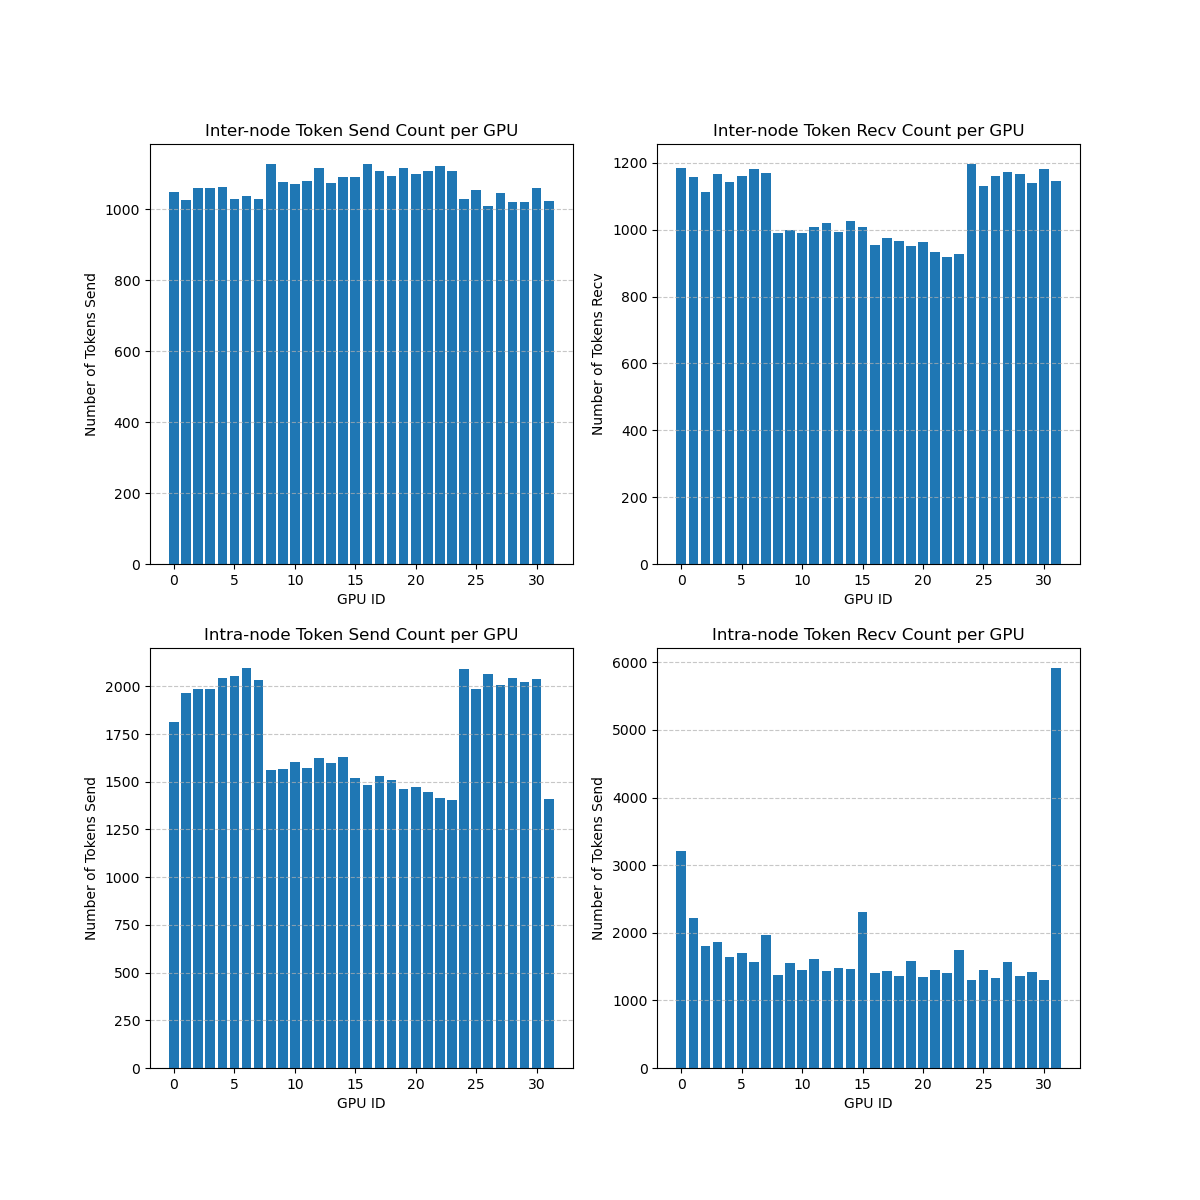
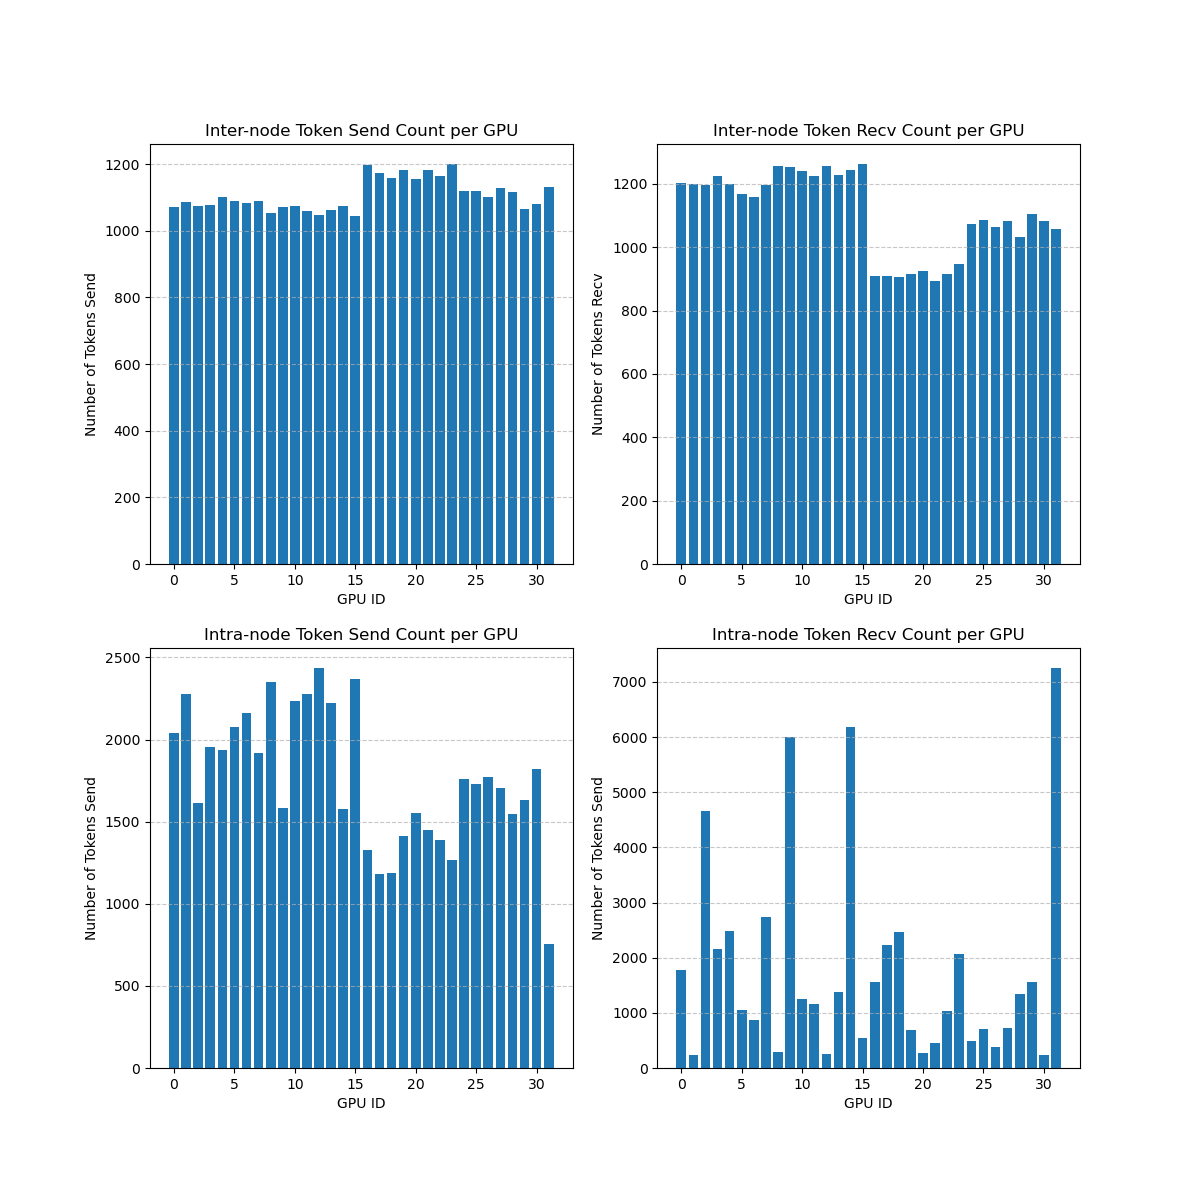
refine the workload

diff --git a/generate_workload.py b/generate_workload.py
@@ -6,7 +6,7 @@ from tqdm import tqdm
 from common import *
 from analyze_workload import analyze_pkl_workload
 
-def generate_workload(config: SimConfig, cluster: Cluster, output_dir):
+def generate_workload_zipf(config: SimConfig, cluster: Cluster, output_dir):
     '''
     生成config.iter_num个需求文件保存到output_dir中
     '''
@@ -76,11 +76,197 @@ def generate_workload(config: SimConfig, cluster: Cluster, output_dir):
     print(f"Workload Generation Complete!")
     print(f"Generated {total_requests_count} token requests in {output_dir}")
 
+def generate_workload_dirichlet(config :SimConfig, cluster :Cluster, output_dir):
+    '''
+    使用dirichlet分布生成工作负载
+    '''
+    if not os.path.exists(output_dir):
+        os.makedirs(output_dir)
+    
+    total_requests_count = 0
+    print(f"Start Generate Wrokloads......")
+    print(f" - Iter Num: {config.iter_num}")
+    print(f" - Layer Num: {config.num_layers}")
+    print(f" - Token Num Per Iter: {config.num_tokens}")
+    print(f" - Dirichlet Alpha: {config.zipf_alpha}")
+
+    tokens_per_gpu = config.num_tokens // config.total_gpus
+    src_gpu_base = np.repeat(np.arange(0, config.total_gpus), tokens_per_gpu)
+
+    if len(src_gpu_base) < config.num_tokens:
+        diff = config.num_tokens - len(src_gpu_base)
+        src_gpu_base = np.concatenate([src_gpu_base, np.random.randint(0, config.total_gpus, diff)])
+    
+    for iter_idx in range(config.iter_num):
+
+        iter_data = []
+        
+        print(f"Generating Iter:{iter_idx}/{config.iter_num - 1}...")
+        for layer_id in tqdm(range(config.num_layers), desc="Layers"):
+            layer_request = []
+
+            alpha_vec = np.full(config.total_experts, config.zipf_alpha)
+            expert_prob = np.random.dirichlet(alpha_vec)
+
+            raw_samples = np.random.choice(
+                config.total_experts,
+                (config.num_tokens, config.top_k * 2),
+                replace=True,
+                p=expert_prob
+            )
+
+            for token_id in range(config.num_tokens):
+                src_gpu = src_gpu_base[token_id]
+                candidate_experts = raw_samples[token_id]
+
+                target_experts = []
+                for exp in candidate_experts:
+                    exp = int(exp)
+                    if exp not in target_experts:
+                        target_experts.append(exp)
+                        if len(target_experts) == config.top_k:
+                            break
+                
+                while len(target_experts) < config.top_k:
+                    new_exp = np.random.randint(0, config.total_experts, dtype=int)
+                    if new_exp not in target_experts:
+                        target_experts.append(new_exp)
+                
+                req = TokenRequest(
+                    token_id=token_id,
+                    src_gpu=src_gpu,
+                    target_experts=target_experts,
+                )
+
+                cluster.resolve_targets(req)
+                layer_request.append(req)
+        
+            iter_data.append(layer_request)
+            total_requests_count += len(layer_request)
+
+        with open(os.path.join(output_dir, f"iter_{iter_idx}_requests.pkl"), "wb") as f:
+            pickle.dump(iter_data, f)
+        
+        del iter_data
+    
+    print(f"Workload Generation Complete!")
+    print(f"Generated {total_requests_count} token requests in {output_dir}")
+
+def generate_workload_custom(
+        config :SimConfig,
+        cluster :Cluster,
+        output_dir,
+        hot_experts :list[int],
+        hot_traffic_ratio :float 
+):
+    '''
+    接收热点专家列表和热点专家组的流量比例，生成不均衡的工作负载
+    '''
+    
+    if not os.path.exists(output_dir):
+        os.makedirs(output_dir)
+
+    if not hot_experts:
+        raise ValueError("Parameter hot_experts can not be empty")
+    
+    if hot_traffic_ratio is None:
+        raise ValueError("Parameter hot_experts can not be empty")
+    
+    if len(hot_experts) >= config.total_experts:
+        raise ValueError("All experts cannot be hot experts")
+    
+    if not (0 <= hot_traffic_ratio <= 1):
+        raise ValueError("hot_traffic_ratio must between 0 and 1")
+    
+    total_experts = config.total_experts
+    prob_vector = np.zeros(total_experts, dtype=float)
+
+    cold_experts = [i for i in range(total_experts) if i not in hot_experts]
+
+    num_hot_experts = len(hot_experts)
+    num_cold_experts = len(cold_experts)
+
+    intra_group_alpha = config.zipf_alpha
+
+    if num_hot_experts > 0:
+        hot_internal_weights = np.random.dirichlet(np.full(num_hot_experts, intra_group_alpha))
+        prob_vector[hot_experts] = hot_internal_weights * hot_traffic_ratio
+
+    if num_cold_experts > 0:
+        cold_internal_weights = np.random.dirichlet(np.full(num_cold_experts, intra_group_alpha))
+        prob_vector[cold_experts] = cold_internal_weights * (1.0 - hot_traffic_ratio)
+    
+    prob_vector = prob_vector / prob_vector.sum()
+    
+    total_requests_count = 0
+    tokens_per_gpu = config.num_tokens // config.total_gpus
+
+    src_gpu_base = np.repeat(np.arange(0, config.total_gpus), tokens_per_gpu)
+
+    if len(src_gpu_base) < config.num_tokens:
+        diff = config.num_tokens - len(src_gpu_base)
+        src_gpu_base = np.concatenate([src_gpu_base, np.random.randint(0, config.total_gpus, diff)])
+
+    print(f"Start Generate Custom Workloads...")
+    print(f" - Hot Ratio: {hot_traffic_ratio}")
+    print(f" - Hot Experts: {hot_experts}")
+
+    for iter_idx in range(config.iter_num):
+        iter_data = []
+
+        for layer_id in range(config.num_layers):
+            layer_request = []
+
+            raw_samples = np.random.choice(
+                total_experts,
+                (config.num_tokens, config.top_k * 2),
+                replace=True,
+                p=prob_vector
+            )
+            
+            for token_id in range(config.num_tokens):
+                candidate = raw_samples[token_id]
+                target_experts = []
+
+                for exp in candidate:
+                    exp = int(exp)
+                    if exp not in target_experts:
+                        target_experts.append(exp)
+                        if len(target_experts) == config.top_k:
+                            break
+
+                while len(target_experts) < config.top_k:
+                    new_exp = np.random.randint(0, total_experts)
+                    if new_exp not in target_experts:
+                        target_experts.append(new_exp)
+                
+                req = TokenRequest(
+                    token_id,
+                    src_gpu_base[token_id],
+                    target_experts
+                )
+                cluster.resolve_targets(req)
+                layer_request.append(req)
+            
+            iter_data.append(layer_request)
+            total_requests_count += len(layer_request)
+        
+        file_path = os.path.join(output_dir, f"iter_{iter_idx}_requests.pkl")
+        with open(file_path, "wb") as f:
+            pickle.dump(iter_data, f)
+        
+        del iter_data
+    print(f"Workload Generation Complete!")
+    print(f"Generated {total_requests_count} token requests in {output_dir}")
 
 if __name__ == "__main__":
     print("Test Generate Workload")
     args = get_args()
     config = get_config(args)
     cluster = Cluster(config)
-    generate_workload(config, cluster, args.workload_output_dir)
+    hot_experts = [0, 4, 18, 28, 36, 40, 54, 63]
+    hot_traffic_ratio = 0.5
+    # generate_workload_zipf(config, cluster, args.workload_output_dir)
+    # generate_workload_dirichlet(config, cluster, args.workload_output_dir)
+    generate_workload_custom(config, cluster, args.workload_output_dir, hot_experts, hot_traffic_ratio)
     analyze_pkl_workload(args.workload_output_dir, config.total_gpus)

diff --git a/generate-workload-doc.md b/generate-workload-doc.md
@@ -1,0 +1,85 @@
+# 负载生成说明文档
+
+## 1. Zipf 分布
+
+### 1.1 设计意图
+
+Zipf 分布是模拟长尾分布（Long-tail Distribution）的经典模型。用于模拟**极少数专家承担绝大多数负载**的极端热点场景。
+
+### 1.2 数学原理
+
+Zipf 分布的概率质量函数（PMF）定义为：
+$$ P(k) = \frac{1/k^\alpha}{\sum_{n=1}^{N} (1/n^\alpha)} $$
+其中：
+
+- $k$ 是专家 id，$k \in \{1, 2, \dots, N\}$。
+- $N$ 是专家总数 (`total_experts`)。
+- $\alpha$ 是偏斜参数 (`zipf_alpha`)。$\alpha$ 越大，分布越陡峭，热点越集中；$\alpha$ 越接近 0，分布越趋于均匀。
+
+### 1.3 生成逻辑
+
+1.  **独立采样**：对于每个 Token，使用 `numpy.random.zipf(a)` 生成一个随机整数 $X$。
+2.  **哈希映射**：由于 Zipf 生成的整数范围是 $[1, \infty)$，我们需要将其映射到有限的专家 ID 空间 $[0, N-1]$。采用取模映射法：
+    $$ \text{Expert ID} = (X - 1) \pmod N $$
+    这种映射保留了 Zipf 分布的高频特性（例如 $X=1, X=N+1$ 都会映射到 Expert 0，使其成为超级热点）。
+3.  **Top-K 去重**：如果采样的 $K$ 个专家有重复，则进行重新采样或随机补全，确保 Top-K 专家的唯一性。
+
+---
+
+## 2. Dirichlet 分布
+
+### 2.1 设计意图
+
+虽然 Zipf 能模拟极端热点，但它倾向于生成单一的静态热点（Rank 1 总是最热）。现实中的 MoE 负载往往呈现**多热点**特征，即可能有多个不同的热点专家，且热点分布具有随机性。Dirichlet 分布用于模拟这种**多热点且热点位置随机**的场景。
+
+### 2.2 数学原理
+
+Dirichlet 分布用于生成一个概率向量 $\mathbf{P} = [p_0, p_1, \dots, p_{N-1}]$，满足 $\sum p_i = 1$。
+其概率密度函数为：
+$$ f(\mathbf{P}; \boldsymbol{\alpha}) = \frac{1}{B(\boldsymbol{\alpha})} \prod_{i=0}^{N-1} p_i^{\alpha_i - 1} $$
+其中 $\boldsymbol{\alpha} = [\alpha, \alpha, \dots, \alpha]$ 是浓度参数向量。
+
+- **$\alpha < 1$**：生成的概率向量 $\mathbf{P}$ 是**稀疏**的，即大部分概率质量集中在少数几个分量上（模拟多热点）。
+- **$\alpha \gg 1$**：生成的概率向量趋向于均匀分布 $\mathbf{P} \approx [1/N, \dots, 1/N]$。
+- 若所有 $\alpha_i=1$：均匀分布在单纯形上；
+- 若所有$\alpha_i < 1$（如 0.1）：倾向于生成**稀疏向量**（某些$p_i$接近 1，其余接近 0）；
+- 若所有 $\alpha_i > 1$（如 10）：倾向于生成**均匀向量**（各$p_i$接近 $1 / K$）；
+
+### 2.3 生成逻辑
+
+1.  **概率向量生成**：采样一次 Dirichlet 分布，生成该层的全局专家热度向量 $\mathbf{P}$。
+2.  **加权采样**：对于该层的所有 Token，基于 $\mathbf{P}$ 进行加权无放回采样，选出 Top-K 个专家
+
+---
+
+## 3. 自定义热点生成器 
+
+### 3.1 设计意图
+
+精确控制热点的数量、位置以及热点承担的流量比例。例如，测试算法在“4 个热点承担 80%流量”与“8 个热点承担 50%流量”下的性能差异。这种**确定性偏斜**是 Zipf 和 Dirichlet 难以精确复现的。
+
+### 3.2 数学原理
+
+该方法采用**分组概率分配**策略，将专家集划分为热点组 $S_{hot}$ 和冷门组 $S_{cold}$。
+
+**Step 1: 组间流量分配**
+设定热点流量占比为 $\beta$ (`hot_traffic_ratio`)。
+
+- 热点组总概率质量：$M_{hot} = \beta$
+- 冷门组总概率质量：$M_{cold} = 1 - \beta$
+
+**Step 2: 组内概率分配**
+为了模拟组内部的随机性（避免组内完全均等），在组内再次应用 Dirichlet 分布。
+
+- 对于热点组 $S_{hot}$，生成随机权重向量 $\mathbf{w}_h$，满足 $\sum \mathbf{w}_h = 1$。
+- 对于冷门组 $S_{cold}$，生成随机权重向量 $\mathbf{w}_c$，满足 $\sum \mathbf{w}_c = 1$。
+
+**Step 3: 最终概率合成**
+任意专家 $i$ 的被选概率 $P_i$ 计算如下：
+$$ P_i = \begin{cases} \beta \cdot w_{h, i} & \text{if } i \in S*{hot} \\ (1 - \beta) \cdot w_{c, i} & \text{if } i \in S\_{cold} \end{cases} $$
+
+### 3.3 生成逻辑
+
+1.  用户输入指定的热点专家列表 $S_{hot}$ 和偏斜度 $\beta$。
+2.  计算上述最终概率向量 $\mathbf{P}$。
+3.  基于 $\mathbf{P}$ 对所有 Token 进行批量加权采样，生成目标专家序列。
